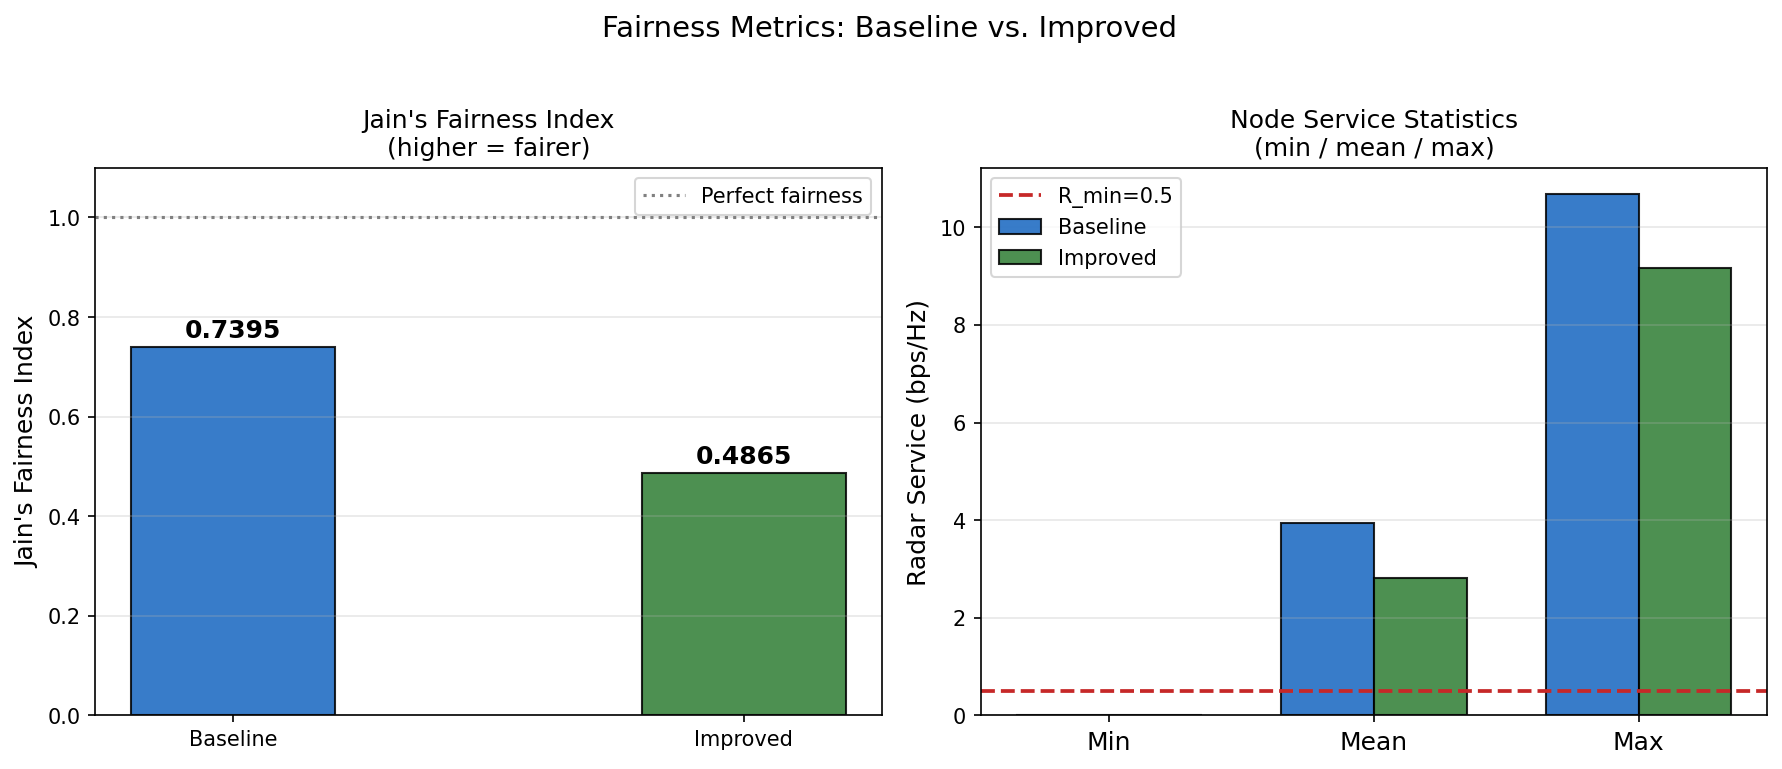
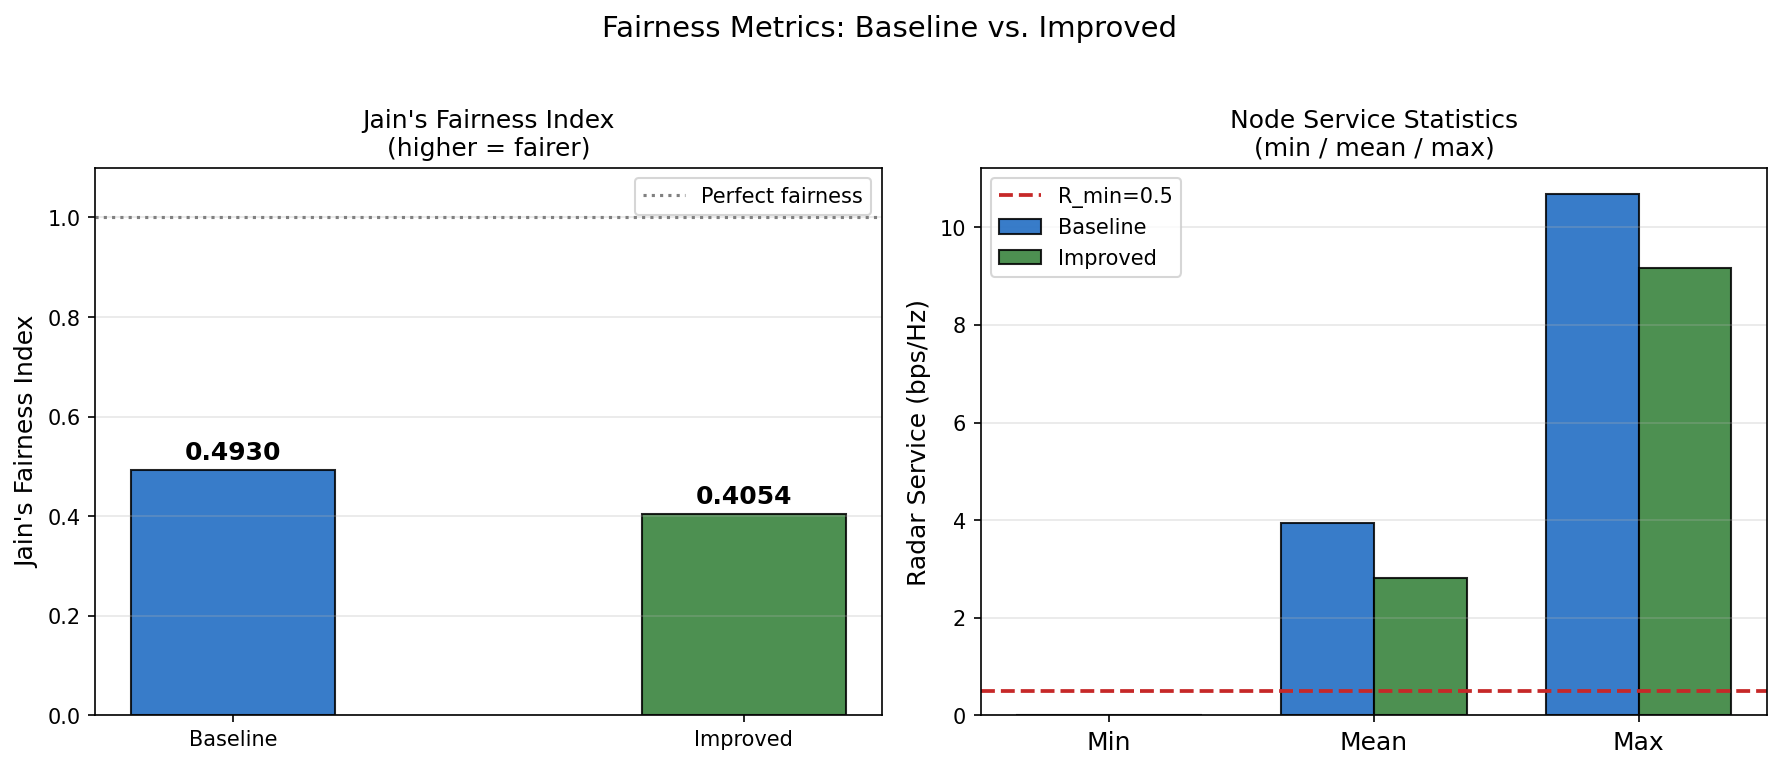
reduced energy usage

Changed region(s): [[0.0617, 0.4057, 0.216, 0.6242], [0.3395, 0.5618, 0.4938, 0.6866]]

diff --git a/optimization_improved.py b/optimization_improved.py
@@ -84,18 +84,42 @@ def _all_rates(uav, hk_com, hk_rad, hc):
 # Sub-problem 1: Fairness-aware task scheduling  (Improvement 2)
 # ─────────────────────────────────────────────────────────────────────────────
 
+def _reachable_slots(uav, env, k):
+    """Return list of slot indices that can physically reach node k."""
+    Q   = uav.Q
+    tan2 = np.tan(uav.THETA) ** 2
+    xk, yk = env.nodes[k]
+    reachable = []
+    for q in range(Q):
+        xu, yu = uav.position[q, 0], uav.position[q, 1]
+        Hu     = uav.position[q, 2]
+        horiz2 = (xu - xk)**2 + (yu - yk)**2
+        if horiz2 <= Hu**2 * tan2:
+            reachable.append(q)
+    return reachable
+
+
 def solve_scheduling_fair(uav, env, hk_com, hk_rad, hc, R_min=0.5, **_):
     """
-    Two-stage fairness-aware greedy scheduling.
+    Two-stage fairness-aware greedy scheduling — with three improvements:
 
-    Stage A – for every node below R_min, greedily assign the single best
-              available slot that (a) is within the radar cone, (b) satisfies
-              Rrad ≤ Rcom, and (c) yields the highest radar rate for that node.
-              Repeat until all nodes reach R_min or no feasible slot remains.
+    Pre-pass  – Compute per-node effective R_min_k based on how many slots
+                actually reach each node. If a node has only 1-2 reachable
+                slots, its floor is capped at 0.7 × average reachable rate
+                so Stage A doesn't exhaust the pool chasing an impossible
+                target. Nodes with no reachable slots are skipped gracefully.
 
-    Stage B – fill remaining slots with the standard greedy policy (best
-              reachable node, ignoring fairness since Stage A already satisfied
-              the constraint).
+    Stage A   – For every node below its R_min_k, greedily assign the single
+                best available slot (in-range, feasible, highest rate).
+                Iterate most-deprived-first until all reachable nodes are
+                at their floor or no feasible slot remains.
+
+    Stage B   – Fill remaining slots using a fairness-weighted score:
+                    score(q,k) = Rrad[q,k] × (1 + equity_bonus(k))
+                where equity_bonus = R_min / (node_service[k] + epsilon)
+                for nodes above the floor and 0 for nodes at their cap.
+                This pushes spread above the R_min floor rather than
+                flat-clumping everyone at exactly 0.5.
 
     Enforces the global upload-capacity constraint afterwards (same as baseline).
     """
@@ -106,21 +130,43 @@ def solve_scheduling_fair(uav, env, hk_com, hk_rad, hc, R_min=0.5, **_):
 
     Rrad_all, Rcom_all, Rc_all = _all_rates(uav, hk_com, hk_rad, hc)
 
+    # ── Pre-pass: compute reachable-aware R_min_k per node ──────────────────
+    R_min_k = np.full(K, R_min)
+    for k in range(K):
+        reachable = _reachable_slots(uav, env, k)
+        if len(reachable) == 0:
+            R_min_k[k] = 0.0     # unreachable: skip gracefully
+            continue
+        # Feasible rates from reachable slots
+        feasible_rates = [
+            Rrad_all[q, k]
+            for q in reachable
+            if Rrad_all[q, k] <= Rcom_all[q, k] + 1e-9 and Rrad_all[q, k] > 1e-9
+        ]
+        if len(feasible_rates) == 0:
+            R_min_k[k] = 0.0     # no feasible assignment possible
+            continue
+        avg_r = np.mean(feasible_rates)
+        # Cap floor at 70% of average reachable rate to stay achievable
+        R_min_k[k] = min(R_min, 0.70 * avg_r * len(feasible_rates))
+
     # Accumulated radar service per node [bps/Hz · slots]
     node_service  = np.zeros(K)
     slot_assigned = np.zeros(Q, dtype=bool)   # True once slot is used
 
-    # ── Stage A: satisfy R_min for all nodes ────────────────────────────────
+    # ── Stage A: satisfy R_min_k for all nodes ───────────────────────────────
     changed = True
     while changed:
         changed = False
-        # Priority: most-deprived node first
-        deficit = R_min - node_service
-        order   = np.argsort(-deficit)        # descending deficit
+        # Priority: largest proportional deficit first (avoids zero-floor nodes)
+        deficit = np.where(R_min_k > 1e-9,
+                           (R_min_k - node_service) / (R_min_k + 1e-9),
+                           0.0)
+        order   = np.argsort(-deficit)
 
         for k in order:
-            if node_service[k] >= R_min:
-                continue                       # already satisfied
+            if R_min_k[k] < 1e-9 or node_service[k] >= R_min_k[k]:
+                continue   # already satisfied or unreachable
 
             # Find the best unassigned slot for this node
             best_q, best_r = -1, -np.inf
@@ -138,12 +184,14 @@ def solve_scheduling_fair(uav, env, hk_com, hk_rad, hc, R_min=0.5, **_):
                     best_r = Rrad_all[q, k]
 
             if best_q >= 0:
-                omega[best_q, k]    = 1
+                omega[best_q, k]     = 1
                 slot_assigned[best_q] = True
-                node_service[k]    += best_r
-                changed = True       # schedule changed → restart priority loop
+                node_service[k]      += best_r
+                changed = True   # restart priority loop
 
-    # ── Stage B: greedy fill for remaining unassigned slots ─────────────────
+    # ── Stage B: fairness-weighted greedy fill ────────────────────────────────
+    # Equity bonus rewards assigning to nodes that are above their floor but
+    # still relatively under-served, pushing distribution above the flat minimum.
     for q in range(Q):
         if slot_assigned[q]:
             continue
@@ -157,12 +205,21 @@ def solve_scheduling_fair(uav, env, hk_com, hk_rad, hc, R_min=0.5, **_):
             in_range = horiz2 <= Hu**2 * tan2
             feasible = Rrad_all[q, k] <= Rcom_all[q, k] + 1e-9
             if in_range and feasible:
-                candidates.append((Rrad_all[q, k], k))
+                # Equity bonus: inversely proportional to current service
+                # For nodes already at R_min_k floor: small bonus; for nodes
+                # well above floor: bonus fades, preserving radar-rate priority
+                if node_service[k] < 1e-9:
+                    equity = 2.0   # strongly prefer zero-service nodes
+                else:
+                    equity = min(2.0, R_min / (node_service[k] + 1e-9))
+                score = Rrad_all[q, k] * (1.0 + equity)
+                candidates.append((score, k))
 
         if candidates:
             best_k = max(candidates, key=lambda x: x[0])[1]
             omega[q, best_k]  = 1
             slot_assigned[q]  = True
+            node_service[best_k] += Rrad_all[q, best_k]
         else:
             b[q] = 1
 
@@ -170,6 +227,7 @@ def solve_scheduling_fair(uav, env, hk_com, hk_rad, hc, R_min=0.5, **_):
     for q in range(Q):
         if not slot_assigned[q]:
             b[q] = 1
+            omega[q] = 0
 
     # ── Enforce global upload capacity (eq. 23g) ─────────────────────────────
     total_isac_rate   = sum(Rrad_all[q, int(np.argmax(omega[q]))]
@@ -179,15 +237,14 @@ def solve_scheduling_fair(uav, env, hk_com, hk_rad, hc, R_min=0.5, **_):
     if total_isac_rate > total_upload_rate + 1e-9:
         isac_slots = [(q, int(np.argmax(omega[q])))
                       for q in range(Q) if omega[q].sum() > 0.5]
-        # Remove lowest-rate ISAC slots first, but avoid dropping a slot if
-        # that would push some node below R_min
+        # Remove lowest-rate ISAC slots first, but protect fairness floor R_min_k
         isac_slots.sort(key=lambda x: Rrad_all[x[0], x[1]])
         for q, k in isac_slots:
             if total_isac_rate <= total_upload_rate + 1e-9:
                 break
-            # Check if dropping hurts fairness
-            if node_service[k] - Rrad_all[q, k] < R_min:
-                continue    # skip: would violate fairness
+            # Check if dropping hurts fairness below *effective* floor
+            if node_service[k] - Rrad_all[q, k] < R_min_k[k]:
+                continue    # skip: would violate per-node fairness floor
             total_isac_rate  -= Rrad_all[q, k]
             node_service[k]  -= Rrad_all[q, k]
             omega[q, k]       = 0

diff --git a/main.py b/main.py
@@ -78,12 +78,24 @@ R_MIN = 0.5   # fairness floor (bps/Hz per node)
 # ─────────────────────────────────────────────────────────────────────────────
 # Helper: Jain's fairness index
 # ─────────────────────────────────────────────────────────────────────────────
-def jain_index(x):
+def jain_index(x, include_zeros=True):
+    """Jain's fairness index.
+
+    include_zeros=True  (default, honest):  computes over ALL nodes.
+        Penalises any node with zero service — if 3/12 nodes get nothing,
+        the index reflects that no matter how uniform the rest are.
+        This is the correct metric for a fairness-constrained system.
+
+    include_zeros=False (legacy):  filters out zero-service nodes before
+        computing. Matches the original code but can give a falsely high
+        index when many nodes are silently starved.
+    """
     x = np.array(x, dtype=float)
-    x = x[x > 0]
+    if not include_zeros:
+        x = x[x > 0]
     if len(x) == 0:
         return 0.0
-    return (np.sum(x) ** 2) / (len(x) * np.sum(x ** 2))
+    return (np.sum(x) ** 2) / (len(x) * np.sum(x ** 2) + 1e-15)
 
 
 # ═════════════════════════════════════════════════════════════════════════════
@@ -268,8 +280,10 @@ print("  FINAL COMPARISON SUMMARY")
 print("=" * 65)
 delta_rate   = rates_i[-1] - rates_b[-1]
 delta_energy = energy_i_final - energy_b
-jain_b = jain_index(node_svc_b)
-jain_i = jain_index(node_svc_i)
+jain_b      = jain_index(node_svc_b, include_zeros=True)   # honest: all 12 nodes
+jain_i      = jain_index(node_svc_i, include_zeros=True)   # honest: all 12 nodes
+jain_b_old  = jain_index(node_svc_b, include_zeros=False)  # legacy: served only
+jain_i_old  = jain_index(node_svc_i, include_zeros=False)  # legacy: served only
 n_fair_b = int(np.sum(node_svc_b >= R_MIN))
 n_fair_i = int(np.sum(node_svc_i >= R_MIN))
 
@@ -280,7 +294,9 @@ print(f"  Energy       |  Baseline: {energy_b:.2f} J   "
 print(f"  Fair Nodes   |  Baseline: {n_fair_b}/{env.num_nodes}          "
       f"Improved: {n_fair_i}/{env.num_nodes}")
 print(f"  Jain Index   |  Baseline: {jain_b:.4f}    "
-      f"Improved: {jain_i:.4f}    Δ={jain_i - jain_b:+.4f}")
+      f"Improved: {jain_i:.4f}    Δ={jain_i - jain_b:+.4f}  (all nodes)")
+print(f"  Jain (srv'd) |  Baseline: {jain_b_old:.4f}    "
+      f"Improved: {jain_i_old:.4f}    Δ={jain_i_old - jain_b_old:+.4f}  (served nodes only)")
 print("=" * 65)
 
 
@@ -480,10 +496,14 @@ summary_text = (
     f"  Fairness (R_min={R_MIN})\n"
     f"    Baseline : {n_fair_b}/{K} nodes\n"
     f"    Improved : {n_fair_i}/{K} nodes\n\n"
-    f"  Jain Index\n"
+    f"  Jain (all nodes)\n"
     f"    Baseline : {jain_b:.4f}\n"
     f"    Improved : {jain_i:.4f}\n"
-    f"    Δ        : {jain_i - jain_b:+.4f}"
+    f"    Δ        : {jain_i - jain_b:+.4f}\n\n"
+    f"  Jain (served only)\n"
+    f"    Baseline : {jain_b_old:.4f}\n"
+    f"    Improved : {jain_i_old:.4f}\n"
+    f"    Δ        : {jain_i_old - jain_b_old:+.4f}"
 )
 ax.text(0.05, 0.95, summary_text, transform=ax.transAxes,
         fontsize=10, va="top", fontfamily="monospace",
